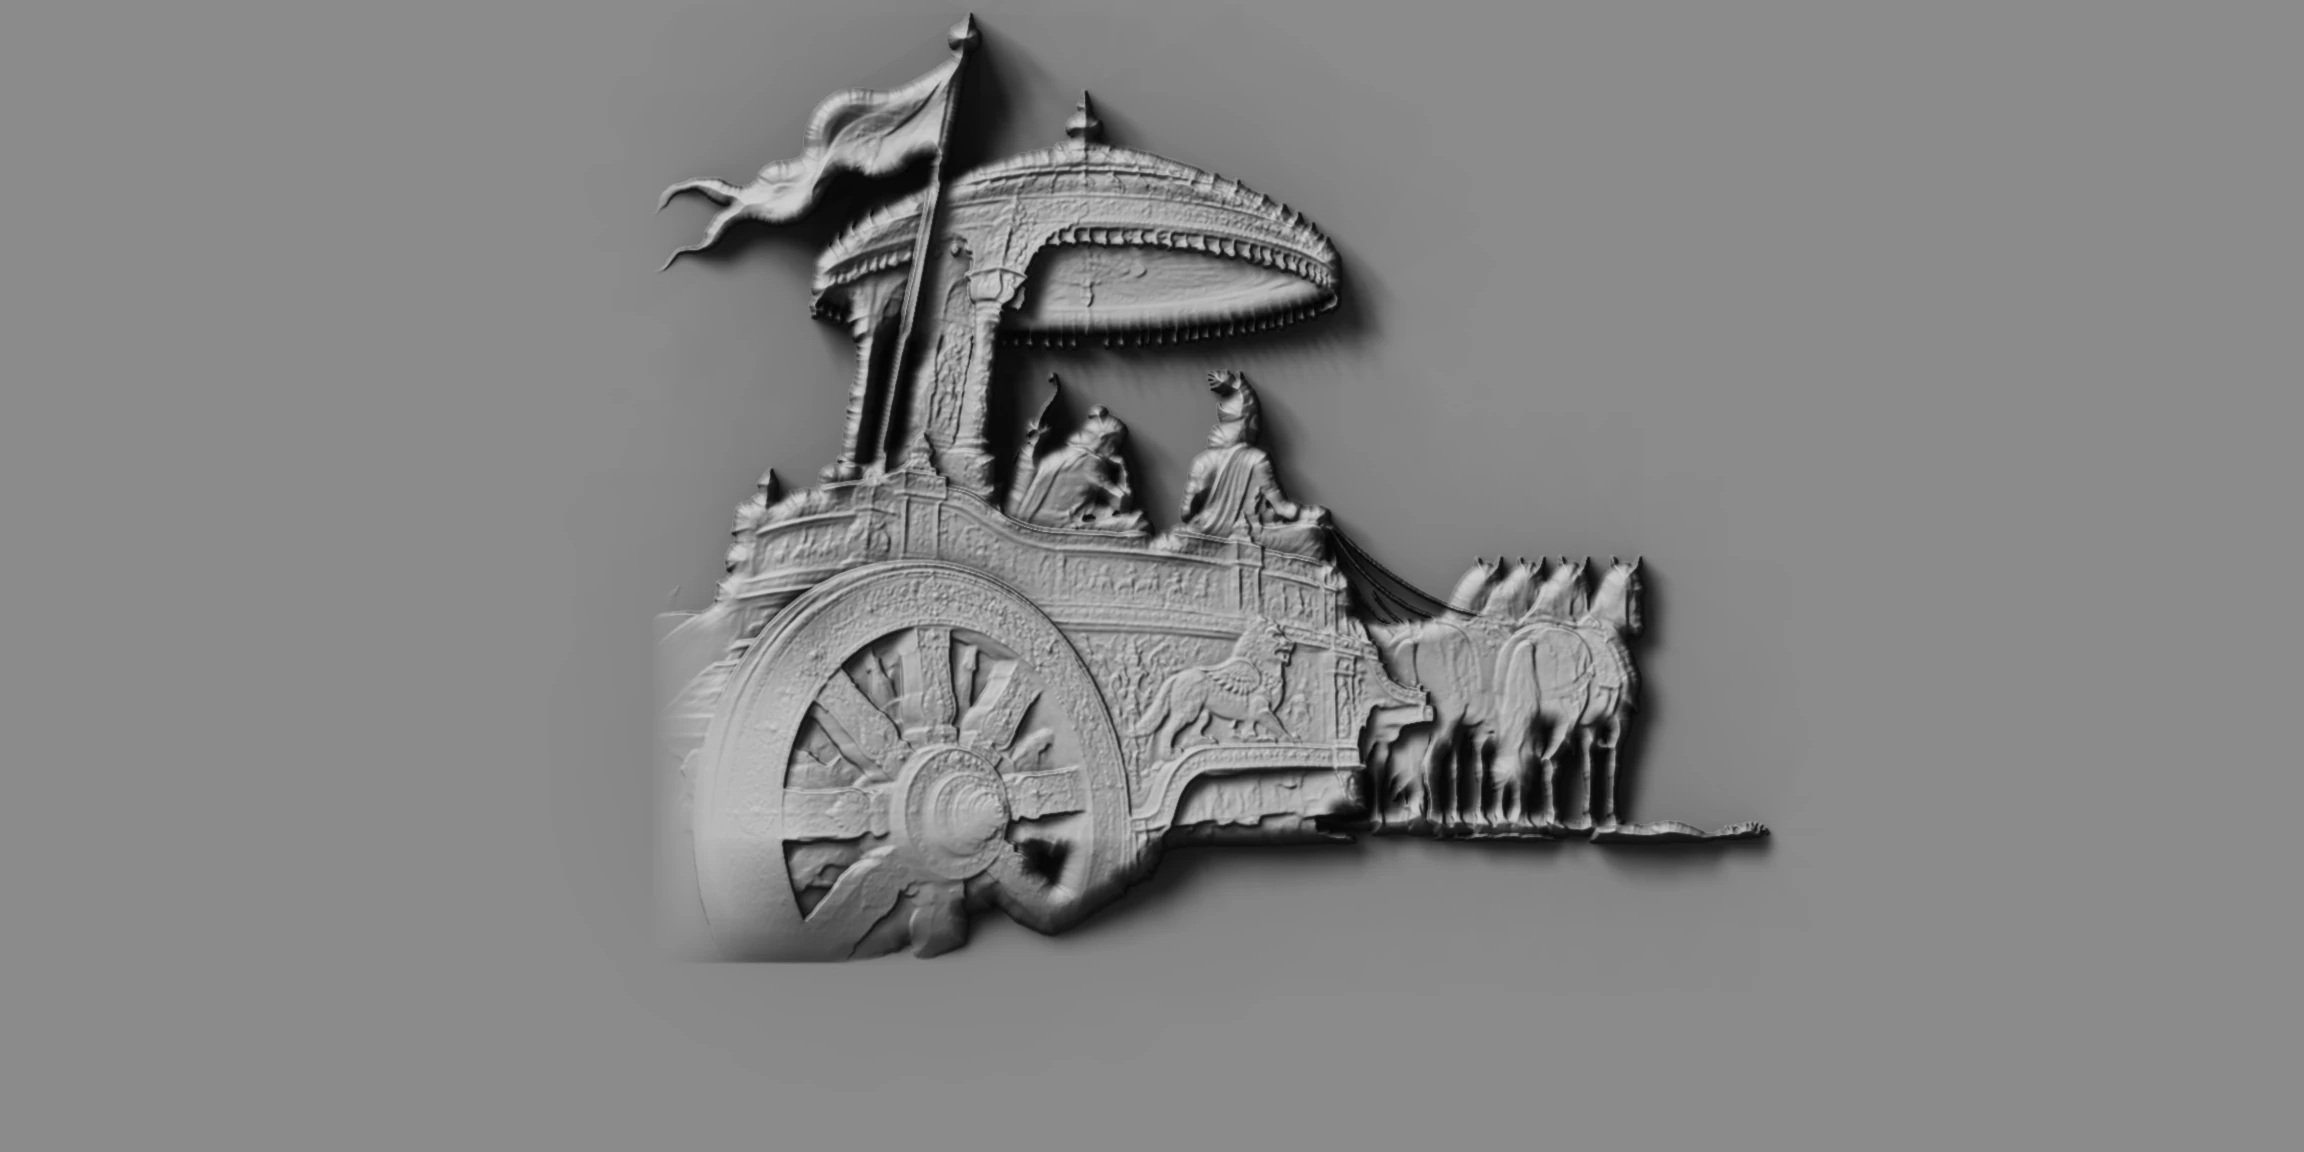
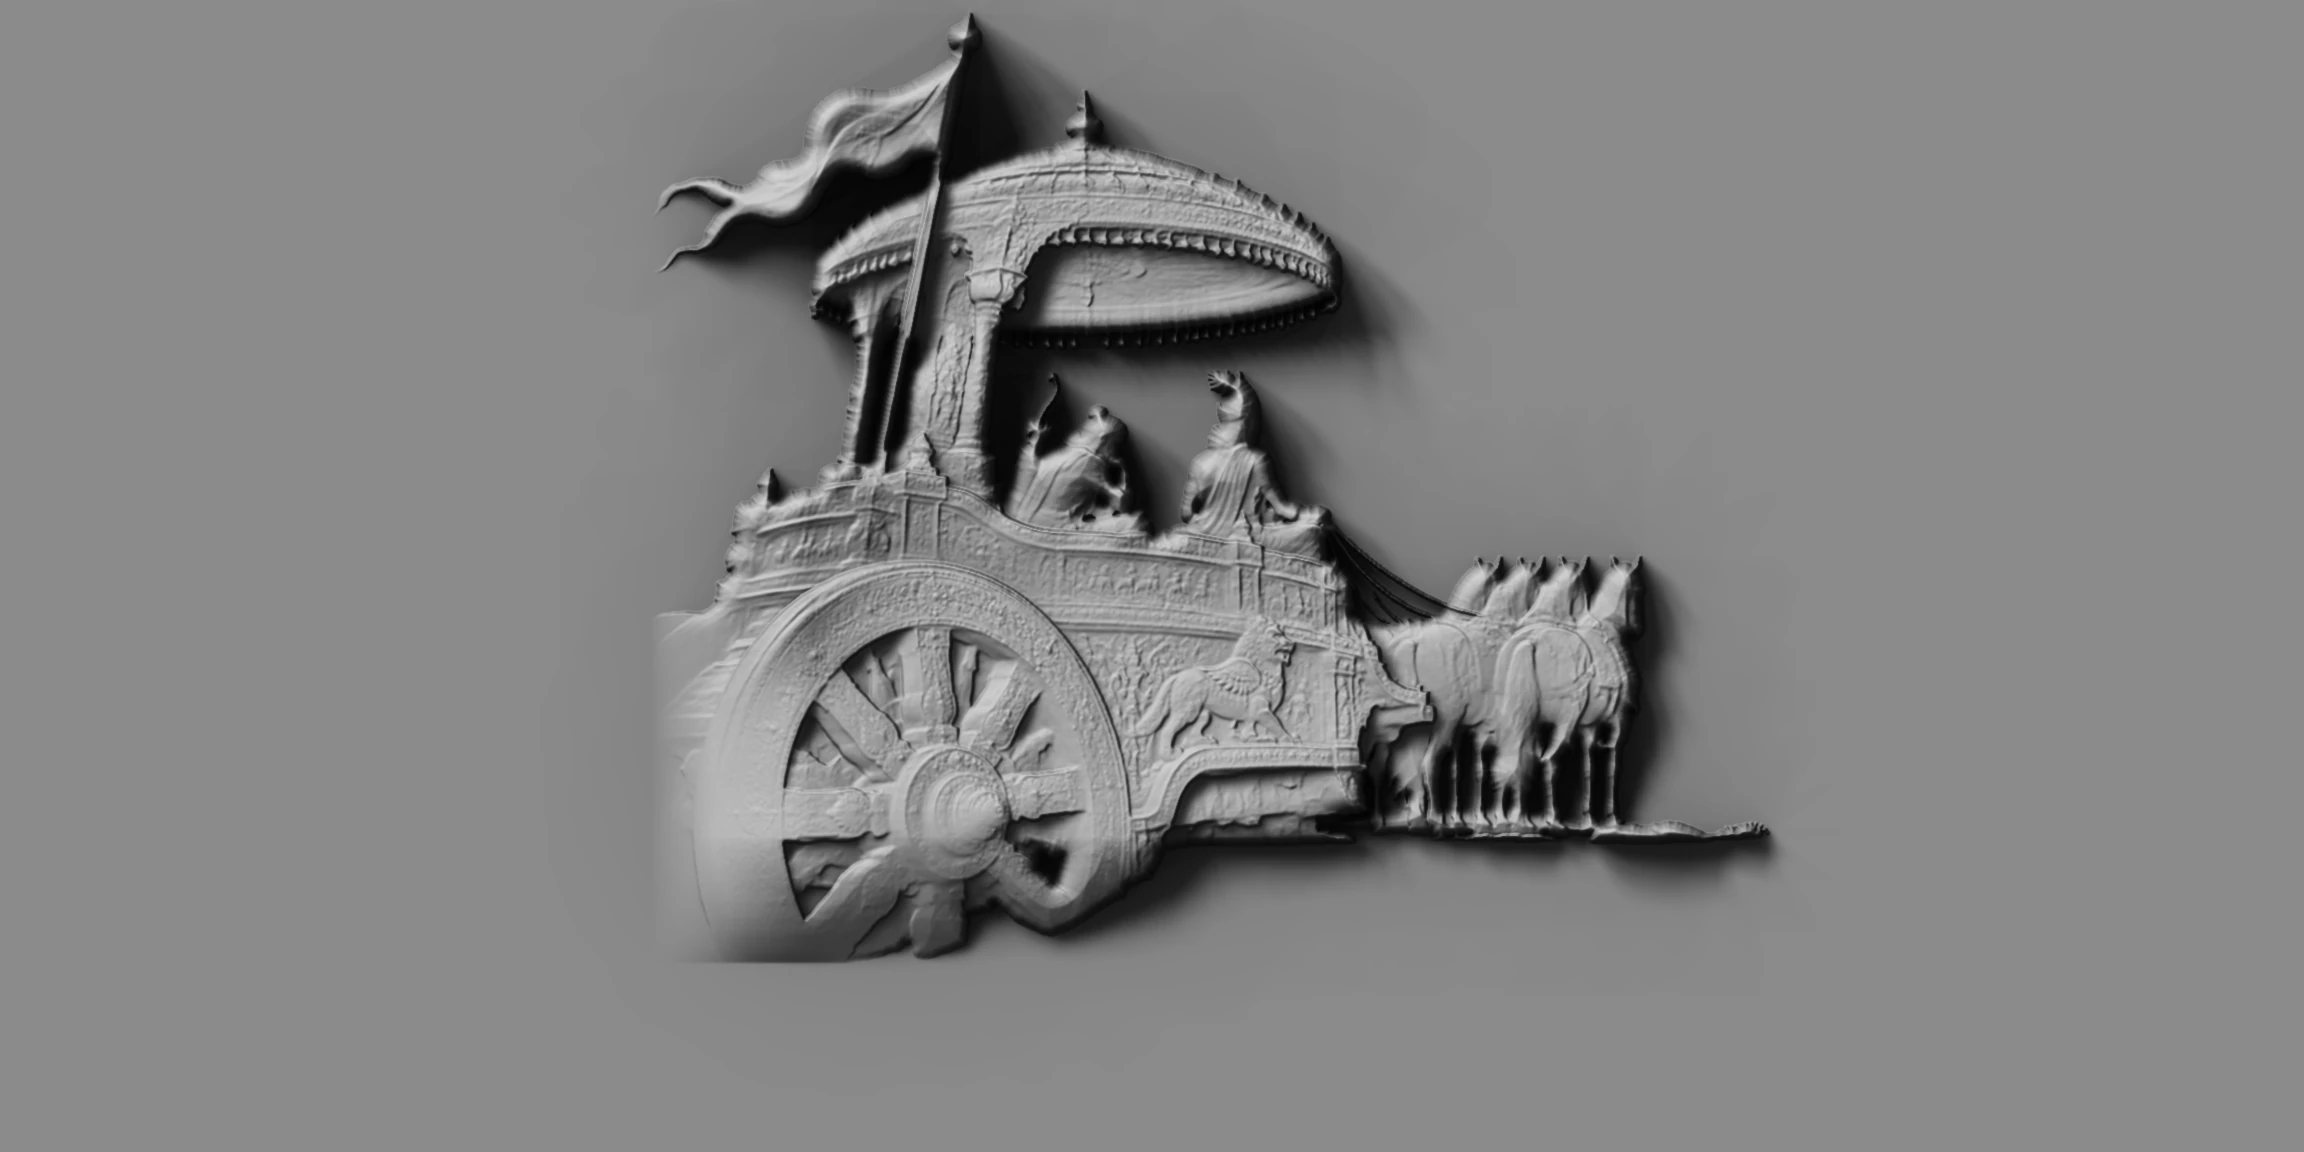
Give the relief thicker, rounder volumes and deeper baked depth
Swell wheel, canopy, riders and horses as separate bodies from two scales
of scene depth, widen the silhouette inflation, and bake and extrude at a
depth of 0.9. Refresh fallback image and comparison captures.

Claude-Session: https://claude.ai/code/session_01M2PHidNBjDG1gMyYGSp28o

diff --git a/src/relief.ts b/src/relief.ts
@@ -23,7 +23,7 @@ const DISSIPATION = 0.953;
 const POINTER_EASE = 0.4;
 const WALL_W = 16.08;
 const WALL_H = 8.04;
-const DEPTH = 0.62;
+const DEPTH = 0.9;
 const CAMERA_DISTANCE = 15;
 const CAMERA_FOV = 30;
 

diff --git a/scripts/relief/build_relief.py b/scripts/relief/build_relief.py
@@ -71,9 +71,14 @@ lum_detail = blur(art, 1.0) - blur(art, 5)
 # at the rim like modelled plaster, instead of standing up as a flat plate.
 solid = (mask > 0.5).astype(np.uint8)
 inside_dist = cv2.distanceTransform(solid, cv2.DIST_L2, 5)
-pillow = np.sqrt(np.clip(1 - (1 - np.clip(inside_dist / 26.0, 0, 1)) ** 2, 0, 1))
-form = np.clip(low, 0, 1.1) ** 0.8
-height = pillow * (0.16 + 0.62 * form) + pillow**0.5 * (2.3 * mid + 2.9 * fine + 0.11 * lum_detail)
+pillow = np.sqrt(np.clip(1 - (1 - np.clip(inside_dist / 64.0, 0, 1)) ** 2, 0, 1))
+rim = np.sqrt(np.clip(1 - (1 - np.clip(inside_dist / 9.0, 0, 1)) ** 2, 0, 1))
+# Big volumes come from the scene's own depth at two scales, so the wheel,
+# canopy, riders and horses each swell as separate bodies.
+body = blur(dn, 9) - blur(dn, 60)
+form = np.clip(low, 0, 1.1) ** 0.75
+height = (0.10 + 0.34 * pillow) * rim + rim * (0.50 * form + 1.5 * np.clip(body, -0.2, 0.4))
+height += rim**0.5 * (2.0 * mid + 2.6 * fine + 0.10 * lum_detail)
 soft = blur(mask, 1.2)
 height = np.clip(height, 0, None) * np.clip(soft * 1.3, 0, 1) * sink
 
@@ -96,7 +101,7 @@ wall /= wall.max()
 # shadow and sky occlusion; the shader cross-fades those stages as the field
 # raises the geometry. Values are in the wall's tone space: flat plaster = REST.
 REST = 0.54504
-DEPTH_TEXELS = float(sys.argv[5]) if len(sys.argv) > 5 else 0.62 / 16.08 * W
+DEPTH_TEXELS = float(sys.argv[5]) if len(sys.argv) > 5 else 0.9 / 16.08 * W
 STEPS = 46
 STEP = 2.0
 

diff --git a/docs/VALIDATION.md b/docs/VALIDATION.md
@@ -3,9 +3,9 @@
 Validates the rebuilt **opening wall**. It does not certify parity with the reference or a finished site. Everything ran in Chromium with software WebGL (SwiftShader); no physical GPU was used.
 
 - `npm run build`: PASS — strict TypeScript, Vite production build.
-- `npm test`: PASS — 7 Playwright tests, 3.7 minutes. Opening WebGL and menu keyboard flow; narrow screen with reduced motion and no motion control; band positions within 2px of the reference's measured grid at 1440×810, 28px sentence, 60% scroll cue; WebGL unavailable; missing artwork; pointer movement raises the carving (pixel contrast over the wheel); height data failing leaves a usable page.
+- `npm test`: PASS — 7 Playwright tests, 3.1 minutes on the final run. Opening WebGL and menu keyboard flow; narrow screen with reduced motion and no motion control; band positions within 2px of the reference's measured grid at 1440×810, 28px sentence, 60% scroll cue; WebGL unavailable; missing artwork; pointer movement raises the carving (pixel contrast over the wheel); height data failing leaves a usable page.
 - `npm run format:check`: PASS.
-- Tone comparison against the user's real-GPU recording of the reference (8-bit grey): wall 196 vs 196, median 190 vs 191, deepest shade about 125 vs 124, brightest plaster about 220 vs 226.
+- Tone comparison against the user's real-GPU recording of the reference (8-bit grey): wall 196 vs 196, median 190 vs 191, deepest shade about 125 vs 114–119, brightest plaster about 220 vs 220–231.
 - Visual comparison images: `docs/reference-study/2026-11-13-b/`.
 
 ## Not verified / not complete

diff --git a/HANDOFF.md b/HANDOFF.md
@@ -29,7 +29,7 @@ Milestone 02: the opening wall rebuilt on the reference's architecture. Still a 
 
 ## Evidence
 
-`docs/reference-study/2026-11-13-b/` holds reference captures (software renderer at 1440×810, plus two frames from the user's real-GPU recording), ours, and a side-by-side. Measured tones, reference vs ours: wall 196 / 196, median 190 / 191, deepest shade about 125 / 124, brightest plaster about 220 / 226.
+`docs/reference-study/2026-11-13-b/` holds reference captures (software renderer at 1440×810, plus two frames from the user's real-GPU recording), ours, and a side-by-side. Measured tones, reference vs ours: wall 196 / 196, median 190 / 191, deepest shade about 125 / 114–119, brightest plaster about 220 / 220–231.
 
 `scripts/reference/capture-reference.cjs` and `capture-ours.cjs` reproduce the captures (global Playwright; the reference script needs `HTTPS_PROXY`).
 
